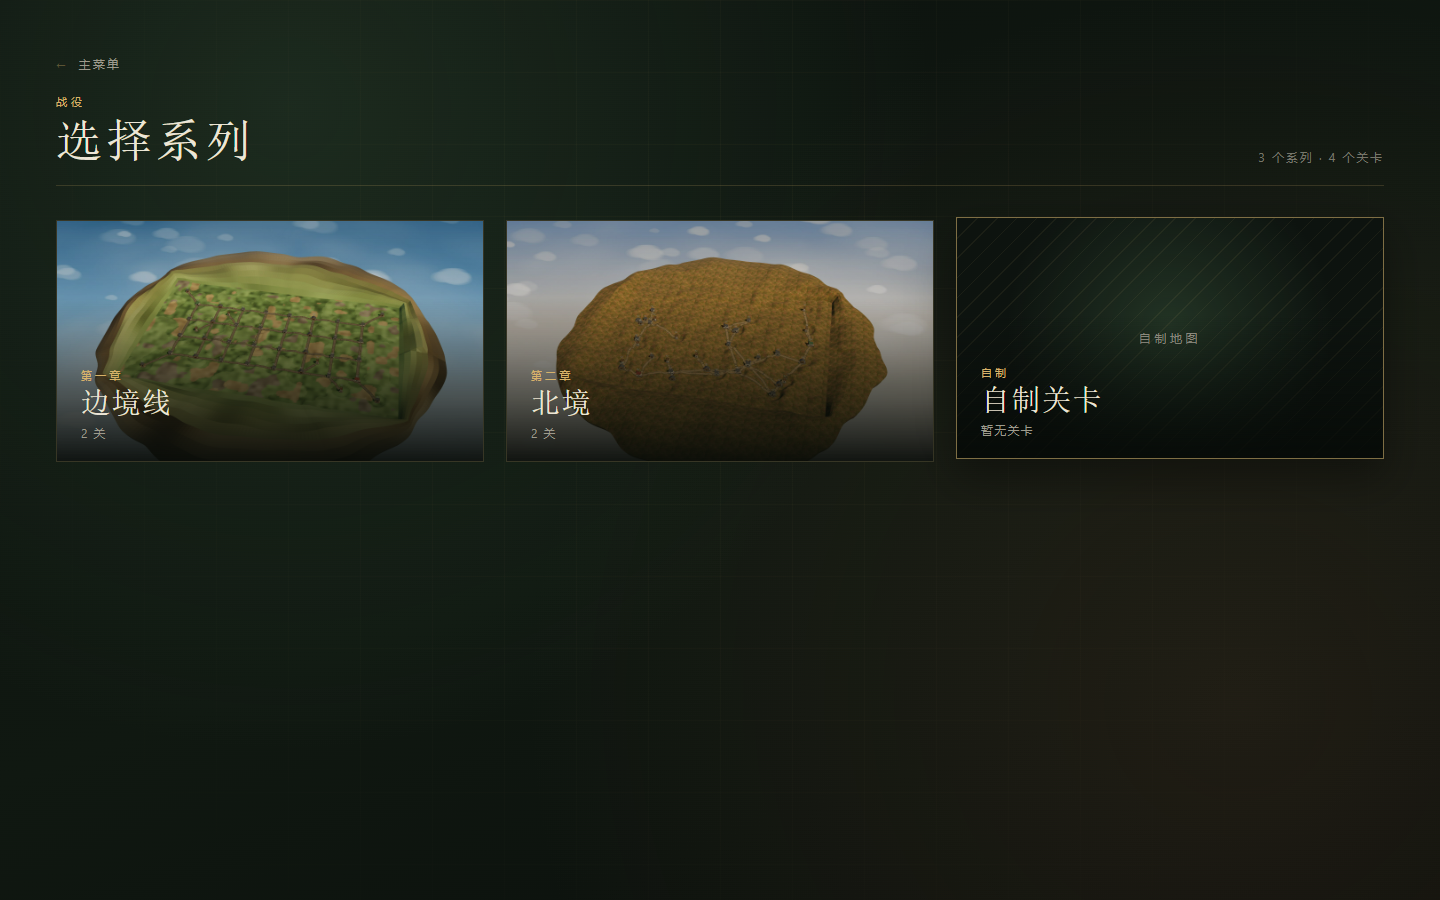
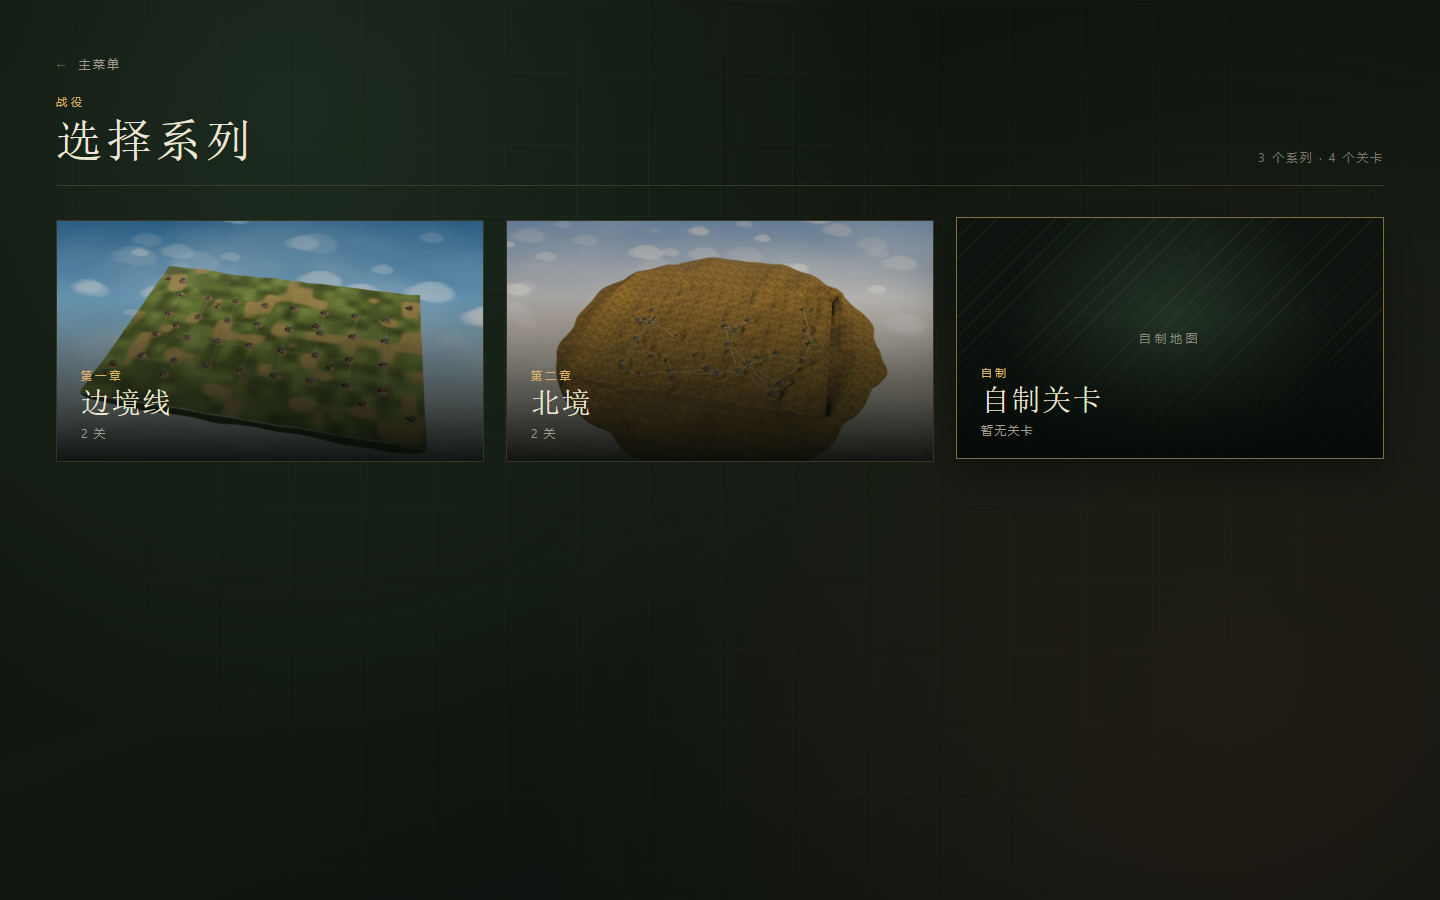
升级到 0.2.0

Changed region(s): [[0.0312, 0.2489, 0.3438, 0.4978]]

diff --git a/tests/e2e/flow.spec.ts b/tests/e2e/flow.spec.ts
@@ -878,12 +878,12 @@ test("campaign opens a series, a level sheet, difficulty and full map preview", 
   await page.click('[data-series="frontier"]');
   await expect(page.locator("#page-series")).toBeVisible();
   await expect(page.locator(".level-card")).toHaveCount(2);
-  await expect(page.locator('[data-level="frontier01"]')).toContainText("Frontier 01");
+  await expect(page.locator('[data-level="frontier01"]')).toContainText("边境线");
   await expect(page.locator('[data-level="frontier01"]')).toContainText("36 座产兵据点");
 
   await page.click('[data-level="frontier01"]');
   await expect(page.locator("#level-overlay")).toHaveClass(/on/);
-  await expect(page.locator("#level-title")).toHaveText("Frontier 01");
+  await expect(page.locator("#level-title")).toHaveText("边境线");
   await expect(page.locator("#level-objective")).toContainText("36");
   await expect(page.locator('input[name="level-difficulty"]')).toHaveCount(3);
 

diff --git a/apps/client/src/app.ts b/apps/client/src/app.ts
@@ -52,7 +52,7 @@ const TEMPLATE = `
       <button class="btn" id="btn-editor">地图编辑器</button>
       <button class="btn" id="btn-settings">设置</button>
       <button class="btn ghost" id="btn-exit">退出</button>
-      <div class="menu-foot" id="menu-version">v0.1.0</div>
+      <div class="menu-foot" id="menu-version">v0.2.0</div>
     </div>
   </div>
 </section>

diff --git a/docs/Marchlands-开发指南.md b/docs/Marchlands-开发指南.md
@@ -1,8 +1,8 @@
 # Marchlands 开发指南
 
-**版本** v0.1.0  
+**版本** v0.2.0  
 **日期** 2026-11-01  
-**状态** M1 已完成，0.1.0 已发布；当前功能与构建方式见根目录 README  
+**状态** M1 已完成，0.2.0 已发布；当前功能与构建方式见根目录 README  
 **机制扩展** 粮草与临时驻兵点（ADR 0002）；行军改道与兵团粮草（ADR 0003）<br>
 **适用对象** 参与本项目的 Agent 与人类开发者
 
@@ -17,7 +17,7 @@
 2. **不复制原作资产与关卡。** .work/original 只读，用于理解规则和节奏；不把原作 PNG、OGG、文本、坐标或节点直接放进项目。
 3. **模拟核心保持纯净。** packages/sim 不得 import Cocos、DOM、Node API；不得使用 Math.random、Date.now；所有随机来自种子。
 
-**当前下一步** 维护 0.1.0 发布版；后续范围见 README 的已知限制。
+**当前下一步** 维护 0.2.0 发布版；后续范围见 README 的已知限制。
 
 如果任务超出“做与不做”清单，先停下，向用户确认，不要自行扩张。
 
@@ -958,3 +958,4 @@ pnpm test:e2e
 - [x] M1.6 美术与音频：程序化建筑库/城墙/道路/树木已接入；音效完成
 - [x] M1.7 试玩与修复
 - [x] M1.8 验收：0.1.0 Windows 客户端发布
+- [x] 0.2.0 地基系统与地形渲染迭代
